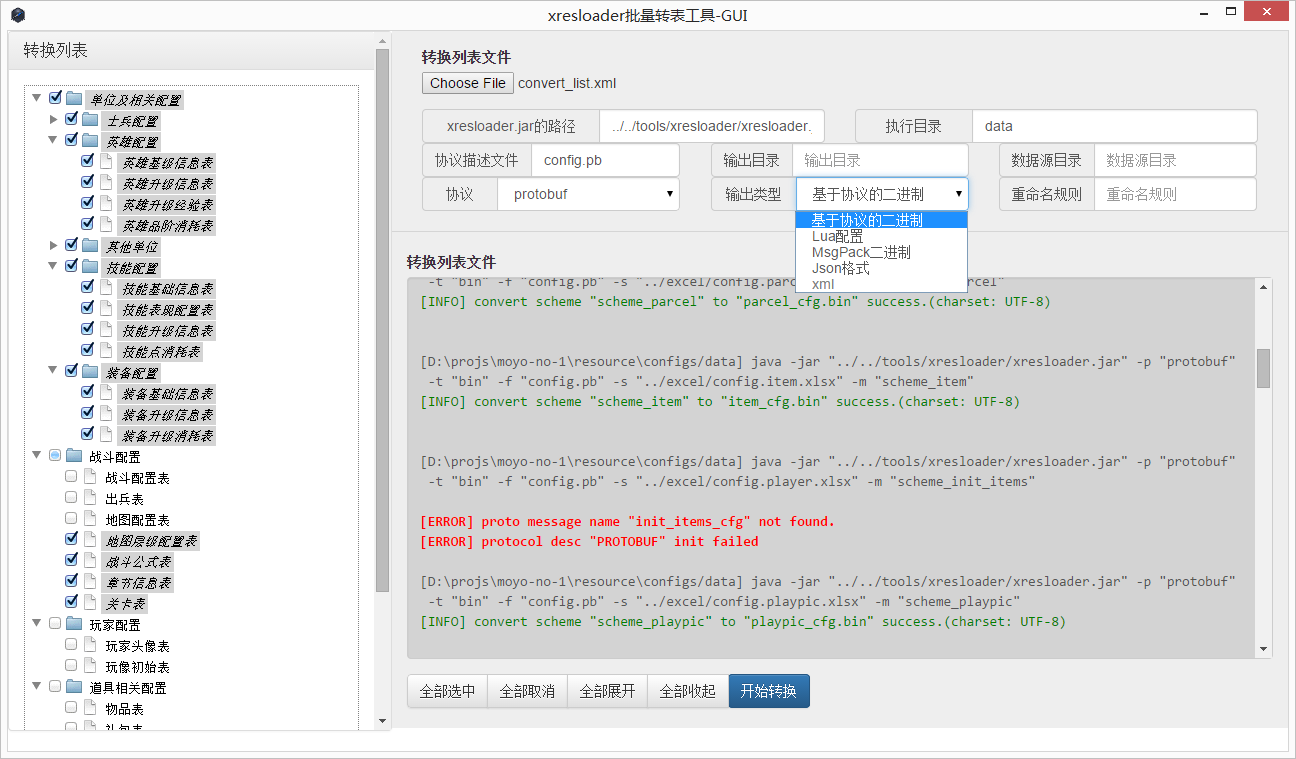
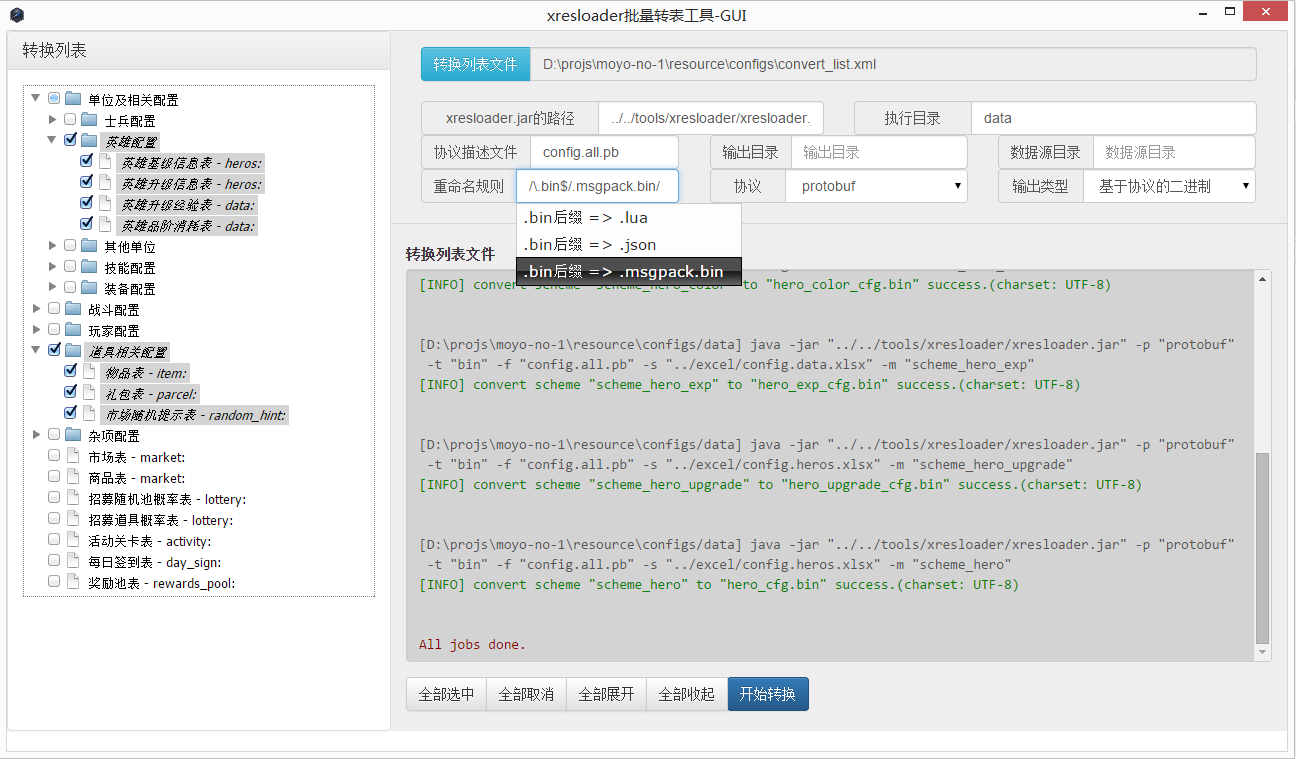
版本 1.1.0

diff --git a/src/main.js b/src/main.js
@@ -393,6 +393,9 @@ function alert_error(content, title) {
             },{
                 value: "/\\.bin$/.msgpack.bin/",
                 label: ".bin后缀 => .msgpack.bin"
+            },{
+                value: "/\\.bin$/.xml/",
+                label: ".bin后缀 => .xml"
             }
         ];
 
